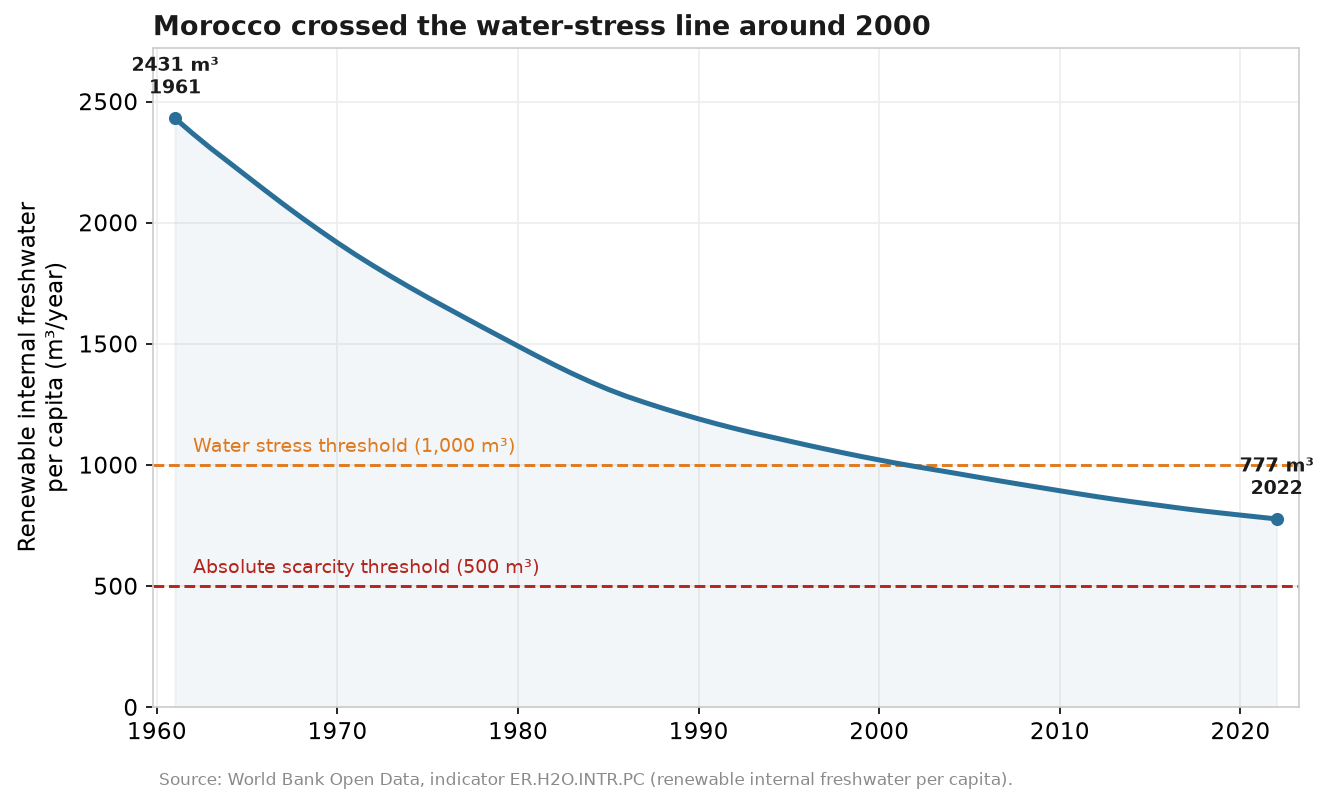
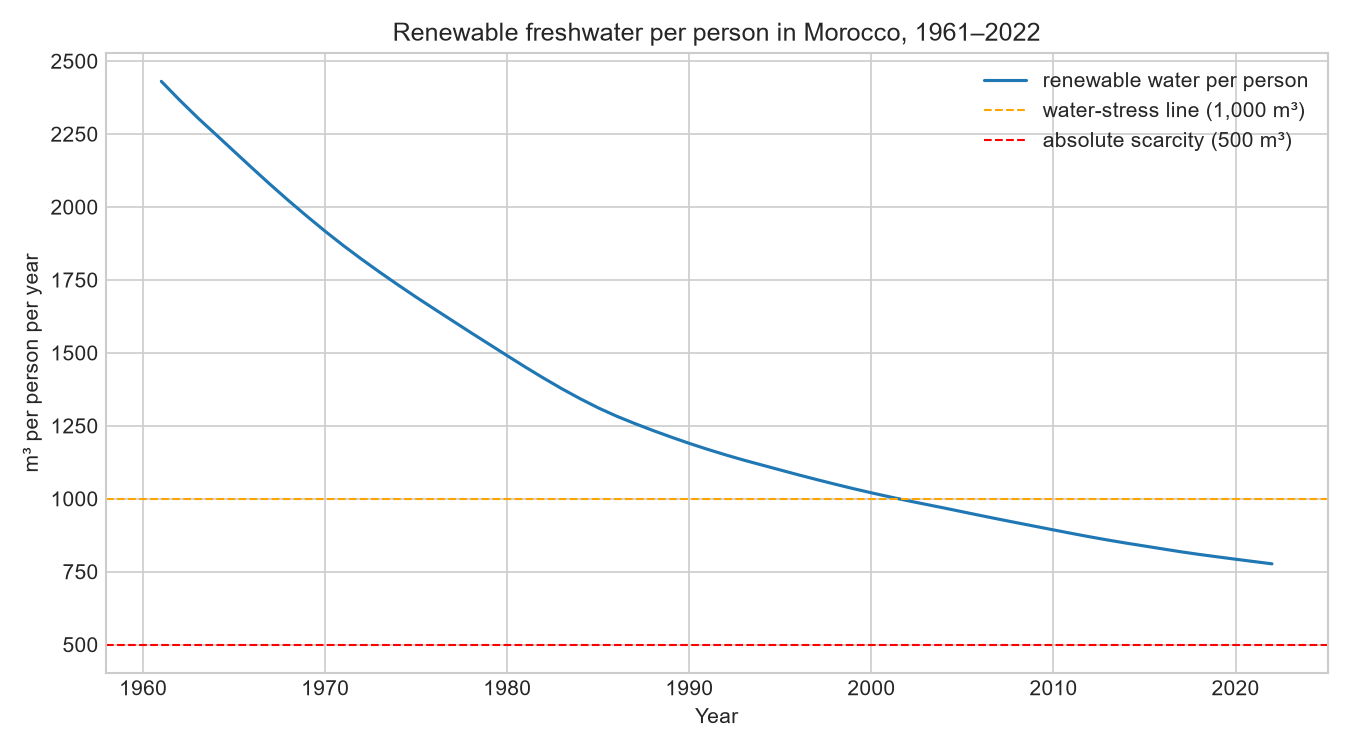
simpler charts

diff --git a/src/build_figures.py b/src/build_figures.py
@@ -1,13 +1,14 @@
 """
 build_figures.py
-Turn the processed indicators into the four story figures.
+The national charts, in plain standard matplotlib (no custom design):
+  fig1  renewable freshwater per person, with the scarcity thresholds
+  fig2  same water, more people (twin axis)
+  fig3  share of withdrawals going to agriculture
+  fig4  reported national reservoir fill rate
 
-Run fetch_worldbank.py first so data/processed exists.
-Figures are written to figures/ as PNG (150 dpi) for the README and StoryMap.
+Reads data/processed/morocco_water_indicators.csv (run fetch_worldbank.py first).
 """
-
 from __future__ import annotations
-
 from pathlib import Path
 
 import matplotlib.pyplot as plt
@@ -18,172 +19,57 @@ PROCESSED = ROOT / "data" / "processed"
 RAW = ROOT / "data" / "raw"
 FIG = ROOT / "figures"
 
-# muted, print-friendly palette (works in light and dark backgrounds)
-INK = "#1a1a1a"
-CRISIS = "#b3261e"      # deep red for the crisis lines
-WARN = "#e07a1f"        # amber
-CALM = "#2a6f97"        # water blue
-GREY = "#8a8a8a"
-
-plt.rcParams.update(
-    {
-        "figure.dpi": 150,
-        "savefig.dpi": 150,
-        "font.size": 11,
-        "axes.edgecolor": "#cccccc",
-        "axes.linewidth": 0.8,
-        "axes.grid": True,
-        "grid.color": "#eeeeee",
-        "grid.linewidth": 0.8,
-        "axes.axisbelow": True,
-    }
-)
-
-
-def _load() -> pd.DataFrame:
-    return pd.read_csv(PROCESSED / "morocco_water_indicators.csv", index_col="year")
-
-
-def fig_percapita_decline(df: pd.DataFrame) -> None:
-    """Per-capita renewable water vs the two international scarcity thresholds."""
-    pc = df["renewable_internal_pc_m3"].dropna()
-
-    fig, ax = plt.subplots(figsize=(9, 5.2))
-    ax.plot(pc.index, pc.values, color=CALM, lw=2.4, zorder=3)
-    ax.fill_between(pc.index, pc.values, 0, color=CALM, alpha=0.06, zorder=1)
-
-    # thresholds
-    ax.axhline(1000, color=WARN, ls="--", lw=1.4)
-    ax.axhline(500, color=CRISIS, ls="--", lw=1.4)
-    ax.text(pc.index.min() + 1, 1035, "Water stress threshold (1,000 m³)",
-            color=WARN, fontsize=9, va="bottom")
-    ax.text(pc.index.min() + 1, 535, "Absolute scarcity threshold (500 m³)",
-            color=CRISIS, fontsize=9, va="bottom")
-
-    # endpoints
-    for yr in (pc.index.min(), pc.index.max()):
-        ax.scatter([yr], [pc.loc[yr]], color=CALM, zorder=4, s=28)
-        ax.annotate(f"{pc.loc[yr]:.0f} m³\n{yr}",
-                    (yr, pc.loc[yr]),
-                    textcoords="offset points", xytext=(0, 12),
-                    ha="center", fontsize=9, color=INK, fontweight="bold")
-
-    ax.set_title("Morocco crossed the water-stress line around 2000",
-                 fontsize=13, fontweight="bold", color=INK, loc="left")
-    ax.set_ylabel("Renewable internal freshwater\nper capita (m³/year)")
-    ax.set_xlabel("")
-    ax.set_ylim(0, pc.max() * 1.12)
-    ax.margins(x=0.02)
-    fig.text(0.125, -0.02,
-             "Source: World Bank Open Data, indicator ER.H2O.INTR.PC (renewable internal freshwater per capita).",
-             fontsize=8, color=GREY)
-    fig.tight_layout()
-    fig.savefig(FIG / "fig1_percapita_decline.png", bbox_inches="tight")
-    plt.close(fig)
-
-
-def fig_resource_vs_people(df: pd.DataFrame) -> None:
-    """The water didn't shrink — the people multiplied. Twin-axis story figure."""
-    total = df["renewable_internal_total_bcm"].dropna()
-    pop = df["population"].dropna() / 1e6
-    yrs = total.index.intersection(pop.index)
-
-    fig, ax1 = plt.subplots(figsize=(9, 5.2))
-    ax1.plot(yrs, total.loc[yrs], color=CALM, lw=2.4, label="Renewable water (fixed)")
-    ax1.set_ylabel("Renewable internal freshwater\n(billion m³/year)", color=CALM)
-    ax1.tick_params(axis="y", labelcolor=CALM)
-    ax1.set_ylim(0, total.max() * 1.6)
-
-    ax2 = ax1.twinx()
-    ax2.plot(yrs, pop.loc[yrs], color=CRISIS, lw=2.4, label="Population")
-    ax2.set_ylabel("Population (millions)", color=CRISIS)
-    ax2.tick_params(axis="y", labelcolor=CRISIS)
-    ax2.grid(False)
-
-    # direct line labels so no legend decoding is needed
-    last = yrs.max()
-    ax1.annotate("Renewable water\n(fixed ≈ 29 bcm)",
-                 (last, total.loc[last]), textcoords="offset points",
-                 xytext=(-95, 14), color=CALM, fontsize=9, fontweight="bold")
-    ax2.annotate("Population\n(×3 since 1961)",
-                 (last, pop.loc[last]), textcoords="offset points",
-                 xytext=(-92, -34), color=CRISIS, fontsize=9, fontweight="bold")
-
-    ax1.set_title("Same water, three times the people",
-                  fontsize=13, fontweight="bold", color=INK, loc="left")
-    fig.text(0.125, -0.02,
-             "Source: World Bank Open Data — ER.H2O.INTR.K3 (total renewable water) and SP.POP.TOTL (population).",
-             fontsize=8, color=GREY)
-    fig.tight_layout()
-    fig.savefig(FIG / "fig2_resource_vs_people.png", bbox_inches="tight")
-    plt.close(fig)
-
-
-def fig_agriculture_share(df: pd.DataFrame) -> None:
-    """Where the water goes: agriculture dominates withdrawals."""
-    ag = df["withdrawal_agriculture_pct"].dropna()
-    latest_year = ag.index.max()
-    ag_pct = ag.loc[latest_year]
-    other_pct = 100 - ag_pct
-
-    fig, ax = plt.subplots(figsize=(6.4, 5.2))
-    wedges, _ = ax.pie(
-        [ag_pct, other_pct],
-        colors=[WARN, "#dfe6ea"],
-        startangle=90,
-        counterclock=False,
-        wedgeprops={"width": 0.42, "edgecolor": "white", "linewidth": 2},
-    )
-    ax.text(0, 0.12, f"{ag_pct:.0f}%", ha="center", fontsize=30,
-            fontweight="bold", color=WARN)
-    ax.text(0, -0.22, "of all water\nwithdrawn goes\nto agriculture",
-            ha="center", fontsize=11, color=INK)
-    ax.set_title(f"Agriculture uses most of Morocco's water ({latest_year})",
-                 fontsize=13, fontweight="bold", color=INK)
-    fig.text(0.02, 0.02,
-             "Source: World Bank Open Data, indicator ER.H2O.FWAG.ZS "
-             "(agricultural share of total freshwater withdrawals).",
-             fontsize=8, color=GREY)
-    fig.tight_layout()
-    fig.savefig(FIG / "fig3_agriculture_share.png", bbox_inches="tight")
-    plt.close(fig)
-
-
-def fig_reservoir_levels() -> None:
-    """Reported national dam fill rate — the visible face of the drought."""
-    res = pd.read_csv(RAW / "reservoir_levels_reported.csv", comment="#",
-                      parse_dates=["date"])
-    res["year"] = res["date"].dt.year
-
-    fig, ax = plt.subplots(figsize=(9, 5.2))
-    colors = [CRISIS if v <= 33 else CALM for v in res["national_fill_pct"]]
-    bars = ax.bar(res["year"].astype(str), res["national_fill_pct"],
-                  color=colors, width=0.6)
-    for bar, v in zip(bars, res["national_fill_pct"]):
-        ax.text(bar.get_x() + bar.get_width() / 2, v + 1.2, f"{v:.1f}%",
-                ha="center", fontsize=10, fontweight="bold", color=INK)
-
-    ax.set_ylim(0, 80)
-    ax.set_ylabel("National reservoir fill rate (%)")
-    ax.set_title("Morocco's dams are running dry (reported fill rates)",
-                 fontsize=13, fontweight="bold", color=INK, loc="left")
-    fig.text(0.125, -0.02,
-             "Reported by Moroccan authorities / press (not World Bank). "
-             "See data/raw/reservoir_levels_reported.csv for sourcing.",
-             fontsize=8, color=GREY)
-    fig.tight_layout()
-    fig.savefig(FIG / "fig4_reservoir_levels.png", bbox_inches="tight")
-    plt.close(fig)
-
 
 def main() -> None:
     FIG.mkdir(exist_ok=True)
-    df = _load()
-    fig_percapita_decline(df)
-    fig_resource_vs_people(df)
-    fig_agriculture_share(df)
-    fig_reservoir_levels()
-    print("wrote 4 figures to", FIG.relative_to(ROOT))
+    plt.style.use("seaborn-v0_8-whitegrid")
+    df = pd.read_csv(PROCESSED / "morocco_water_indicators.csv", index_col="year")
+
+    # fig1 — per-capita renewable water + thresholds
+    pc = df["renewable_internal_pc_m3"].dropna()
+    fig, ax = plt.subplots(figsize=(9, 5))
+    ax.plot(pc.index, pc.values, label="renewable water per person")
+    ax.axhline(1000, color="orange", linestyle="--", linewidth=1, label="water-stress line (1,000 m³)")
+    ax.axhline(500, color="red", linestyle="--", linewidth=1, label="absolute scarcity (500 m³)")
+    ax.set_xlabel("Year"); ax.set_ylabel("m³ per person per year")
+    ax.set_title("Renewable freshwater per person in Morocco, 1961–2022")
+    ax.legend()
+    fig.tight_layout(); fig.savefig(FIG / "fig1_percapita_decline.png", dpi=150); plt.close(fig)
+
+    # fig2 — same water, more people
+    total = df["renewable_internal_total_bcm"].dropna()
+    pop = df["population"].dropna() / 1e6
+    fig, ax1 = plt.subplots(figsize=(9, 5))
+    l1, = ax1.plot(total.index, total.values, color="tab:blue", label="renewable water (billion m³)")
+    ax1.set_xlabel("Year"); ax1.set_ylabel("Renewable water (billion m³)")
+    ax1.set_ylim(0, total.max() * 1.5)
+    ax2 = ax1.twinx()
+    l2, = ax2.plot(pop.index, pop.values, color="tab:red", label="population (millions)")
+    ax2.set_ylabel("Population (millions)"); ax2.grid(False)
+    ax1.set_title("Same water, more people: Morocco 1961–2022")
+    ax1.legend(handles=[l1, l2], loc="upper left")
+    fig.tight_layout(); fig.savefig(FIG / "fig2_resource_vs_people.png", dpi=150); plt.close(fig)
+
+    # fig3 — agriculture share of withdrawals
+    ag = df["withdrawal_agriculture_pct"].dropna()
+    yr = int(ag.index.max()); v = float(ag.loc[yr])
+    fig, ax = plt.subplots(figsize=(6, 6))
+    ax.pie([v, 100 - v], labels=[f"Agriculture ({v:.0f}%)", f"Other ({100 - v:.0f}%)"],
+           colors=["tab:green", "lightgray"], startangle=90, wedgeprops={"edgecolor": "white"})
+    ax.set_title(f"Share of freshwater withdrawals, Morocco ({yr})")
+    fig.tight_layout(); fig.savefig(FIG / "fig3_agriculture_share.png", dpi=150); plt.close(fig)
+
+    # fig4 — reported reservoir fill rate
+    res = pd.read_csv(RAW / "reservoir_levels_reported.csv", comment="#", parse_dates=["date"])
+    res["year"] = res["date"].dt.year
+    fig, ax = plt.subplots(figsize=(9, 5))
+    ax.bar(res["year"].astype(str), res["national_fill_pct"], color="tab:blue")
+    ax.set_xlabel("Year"); ax.set_ylabel("Reservoir fill rate (%)")
+    ax.set_ylim(0, 80)
+    ax.set_title("Reported national reservoir fill rate, Morocco")
+    fig.tight_layout(); fig.savefig(FIG / "fig4_reservoir_levels.png", dpi=150); plt.close(fig)
+
+    print("wrote fig1–fig4 to", FIG.relative_to(ROOT))
 
 
 if __name__ == "__main__":

diff --git a/src/build_reservoir_figures.py b/src/build_reservoir_figures.py
@@ -44,35 +44,17 @@ def get_data(force: bool = False):
 
 
 def fig_timeseries(df: pd.DataFrame) -> None:
-    fig, ax = plt.subplots(figsize=(9, 5.2))
-    ax.fill_between(df["year"], df["water_area_km2"], color=CALM, alpha=0.15)
-    ax.plot(df["year"], df["water_area_km2"], color=CALM, lw=2.6,
-            marker="o", ms=5)
-
-    peak = df.loc[df["water_area_km2"].idxmax()]
-    trough = df.loc[df["water_area_km2"].idxmin()]
-    for row, dy, col in [(peak, 14, CALM), (trough, 14, CRISIS)]:
-        ax.annotate(f"{row['water_area_km2']:.0f} km²\n{int(row['year'])}",
-                    (row["year"], row["water_area_km2"]),
-                    textcoords="offset points", xytext=(0, dy),
-                    ha="center", fontsize=10, fontweight="bold", color=col)
-    drop = 100 * (1 - trough["water_area_km2"] / peak["water_area_km2"])
-    ax.text(0.98, 0.9, f"−{drop:.0f}% water surface",
-            transform=ax.transAxes, ha="right", fontsize=13,
-            fontweight="bold", color=CRISIS)
-
-    ax.set_title("Al Massira reservoir has almost vanished from space",
-                 fontsize=13, fontweight="bold", color=INK, loc="left")
+    plt.style.use("seaborn-v0_8-whitegrid")
+    fig, ax = plt.subplots(figsize=(9, 5))
+    ax.plot(df["year"], df["water_area_km2"], marker="o", color="tab:blue",
+            label="water surface area")
+    ax.set_xlabel("Year")
     ax.set_ylabel("Water surface area (km²)")
-    ax.set_ylim(0, df["water_area_km2"].max() * 1.2)
-    ax.grid(True, color="#eeeeee")
-    ax.set_axisbelow(True)
-    fig.text(0.125, -0.02,
-             "Measured from Sentinel-2 (NDWI + Otsu), dry-season scenes, tile 29SPR. "
-             "Data: Earth Search / Sentinel-2 L2A.",
-             fontsize=8, color=GREY)
+    ax.set_ylim(0, df["water_area_km2"].max() * 1.15)
+    ax.set_title("Al Massira reservoir water surface area, 2017–2025 (Sentinel-2)")
+    ax.legend()
     fig.tight_layout()
-    fig.savefig(FIG / "fig6_reservoir_area_timeseries.png", bbox_inches="tight")
+    fig.savefig(FIG / "fig6_reservoir_area_timeseries.png", dpi=150)
     plt.close(fig)
     print("wrote figures/fig6_reservoir_area_timeseries.png")
 
